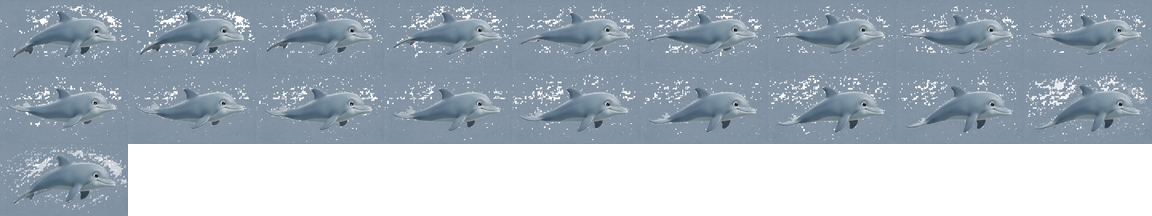
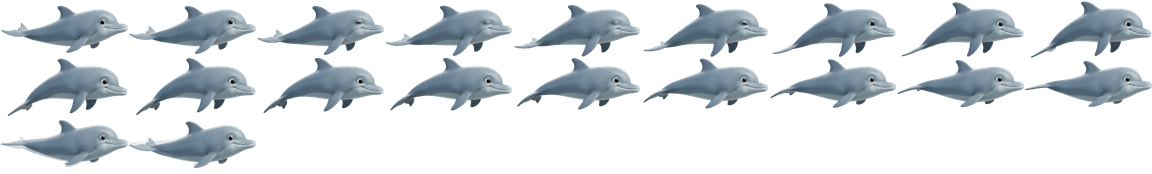
Tartaruga marina dai video di Flow; rimozione del verde che misura la tinta dello sfondo (puntini sul delfino corretti); delfino rifatto
Claude-Session: https://claude.ai/code/session_019em9cPbcfRbQgHotxAwvBy

diff --git a/app/SwimwaveWatch/Squalo.swift b/app/SwimwaveWatch/Squalo.swift
@@ -176,13 +176,21 @@ struct PersonaggioWatch {
 
     static let delfino = PersonaggioWatch(
         id: "delfino",
-        nuota: foglio("delfino", "nuota", righe: 3, totale: 19, 72.0 / 128.0),
-        festa: foglio("delfino", "festa", righe: 5, totale: 44, 73.0 / 128.0),
-        concentrato: foglio("delfino", "concentrato", righe: 5, totale: 44, 72.0 / 128.0),
+        nuota: foglio("delfino", "nuota", righe: 3, totale: 20, 58.0 / 128.0),
+        festa: foglio("delfino", "festa", righe: 5, totale: 44, 72.0 / 128.0),
+        concentrato: foglio("delfino", "concentrato", righe: 5, totale: 44, 56.0 / 128.0),
         stanco: foglio("delfino", "stanco", righe: 5, totale: 44, 58.0 / 128.0),
-        attesa: foglio("delfino", "attesa", righe: 8, totale: 64, 72.0 / 128.0))
+        attesa: foglio("delfino", "attesa", righe: 8, totale: 64, 56.0 / 128.0))
 
-    static let tutti: [PersonaggioWatch] = [squalo, delfino]
+    static let tartaruga = PersonaggioWatch(
+        id: "tartaruga",
+        nuota: foglio("tartaruga", "nuota", righe: 5, totale: 37, 66.0 / 128.0),
+        festa: foglio("tartaruga", "festa", righe: 5, totale: 44, 76.0 / 128.0),
+        concentrato: foglio("tartaruga", "concentrato", righe: 3, totale: 27, 67.0 / 128.0),
+        stanco: foglio("tartaruga", "stanco", righe: 5, totale: 44, 64.0 / 128.0),
+        attesa: foglio("tartaruga", "attesa", righe: 8, totale: 64, 67.0 / 128.0))
+
+    static let tutti: [PersonaggioWatch] = [squalo, delfino, tartaruga]
     private static let chiave = "swimwave.watch.personaggio"
 
     /// Il personaggio scelto, o lo squalo se manca o non è conosciuto da questa versione dell'app.

diff --git a/app/Swimwave/Tema/Personaggio.swift b/app/Swimwave/Tema/Personaggio.swift
@@ -41,13 +41,21 @@ struct Personaggio: Identifiable, Equatable {
     static let delfino = Personaggio(
         id: "delfino",
         chiaveSpecie: "personaggio.delfino",
-        nuota: FoglioPersonaggio(nome: "delfino-nuota-sheet", totale: 19, proporzione: 135.0 / 240.0),
-        festa: FoglioPersonaggio(nome: "delfino-festa-sheet", totale: 44, proporzione: 113.0 / 200.0),
-        stanco: FoglioPersonaggio(nome: "delfino-stanco-sheet", totale: 44, proporzione: 91.0 / 200.0)
+        nuota: FoglioPersonaggio(nome: "delfino-nuota-sheet", totale: 20, proporzione: 110.0 / 240.0),
+        festa: FoglioPersonaggio(nome: "delfino-festa-sheet", totale: 44, proporzione: 112.0 / 200.0),
+        stanco: FoglioPersonaggio(nome: "delfino-stanco-sheet", totale: 44, proporzione: 90.0 / 200.0)
+    )
+
+    static let tartaruga = Personaggio(
+        id: "tartaruga",
+        chiaveSpecie: "personaggio.tartaruga",
+        nuota: FoglioPersonaggio(nome: "tartaruga-nuota-sheet", totale: 37, proporzione: 123.0 / 240.0),
+        festa: FoglioPersonaggio(nome: "tartaruga-festa-sheet", totale: 44, proporzione: 119.0 / 200.0),
+        stanco: FoglioPersonaggio(nome: "tartaruga-stanco-sheet", totale: 44, proporzione: 99.0 / 200.0)
     )
 
     /// Tutti i personaggi previsti, il primo è quello di partenza.
-    static let tutti: [Personaggio] = [squalo, delfino]
+    static let tutti: [Personaggio] = [squalo, delfino, tartaruga]
 
     /// Quelli che hanno davvero i fogli nell'app: solo questi si possono scegliere.
     static var disponibili: [Personaggio] {

diff --git a/tools/crea_fogli_personaggio.py b/tools/crea_fogli_personaggio.py
@@ -21,10 +21,27 @@ LARGHEZZA_WATCH = 128
 COLONNE = 9
 
 
+def tinta_sfondo(a):
+    """Tinta (in gradi) del verde di sfondo, misurata sui quattro angoli: ogni video di Flow ha un verde un po' diverso
+    (verde puro per lo squalo, più verso il turchese per delfino e tartaruga) e un valore fisso lascerebbe puntini."""
+    angoli = np.concatenate([a[:30, :30].reshape(-1, 3), a[:30, -30:].reshape(-1, 3),
+                             a[-30:, :30].reshape(-1, 3), a[-30:, -30:].reshape(-1, 3)])
+    r, g, b = np.median(angoli, axis=0)
+    mx, mn = max(r, g, b), min(r, g, b)
+    d = mx - mn + 1e-6
+    if mx == g:
+        return 60 * ((b - r) / d) + 120
+    if mx == b:
+        return 60 * ((r - g) / d) + 240
+    return (60 * ((g - b) / d)) % 360
+
+
 def chiave(path):
-    """Toglie lo sfondo verde e tiene la sola figura più grande (scarta granelli e riflessi isolati)."""
+    """Toglie lo sfondo verde e tiene la sola figura più grande (scarta granelli e riflessi isolati).
+    Si toglie solo ciò che ha la tinta e la forza del verde di sfondo: una pelle verde chiaro (tartaruga) resta."""
     im = Image.open(path).convert("RGB")
     a = np.asarray(im).astype(np.float32) / 255.0
+    h0 = tinta_sfondo(a)
     r, g, b = a[..., 0], a[..., 1], a[..., 2]
     mx, mn = a.max(-1), a.min(-1)
     d = mx - mn + 1e-6
@@ -33,7 +50,7 @@ def chiave(path):
     h = np.where(mx == r, (60 * ((g - b) / d)) % 360, h)
     h = np.where(mx == b, 60 * ((r - g) / d) + 240, h)
     s = d / (mx + 1e-6)
-    verde = np.clip(1 - np.abs(h - 125) / 40.0, 0, 1) * np.clip((s - 0.16) / 0.16, 0, 1)
+    verde = np.clip(1 - np.abs(h - h0) / 30.0, 0, 1) * np.clip((s - 0.45) / 0.2, 0, 1)
     al = np.asarray(Image.fromarray(((1 - verde) * 255).astype(np.uint8)).filter(ImageFilter.GaussianBlur(0.7)))
     etichette, n = ndimage.label(al > 128)
     if n == 0:

diff --git a/assets/personaggi/README.md b/assets/personaggi/README.md
@@ -20,8 +20,8 @@ Tutti si possono scegliere da chiunque: "per lui" e "per lei" indicano solo il c
 
 ## Stato
 
-- **Delfino:** fatto. Fogli in `assets/personaggi/delfino/`, già nell'app (iPhone e Watch).
-- Tartaruga marina, razza manta, polpo, pinguino: in attesa dei video.
+- **Delfino** e **tartaruga marina:** fatti. Fogli in `assets/personaggi/<id>/`, già nell'app (iPhone e Watch).
+- Razza manta, polpo, pinguino: in attesa dei video.
 
 ## Come si producono (come per lo squalo)
 
